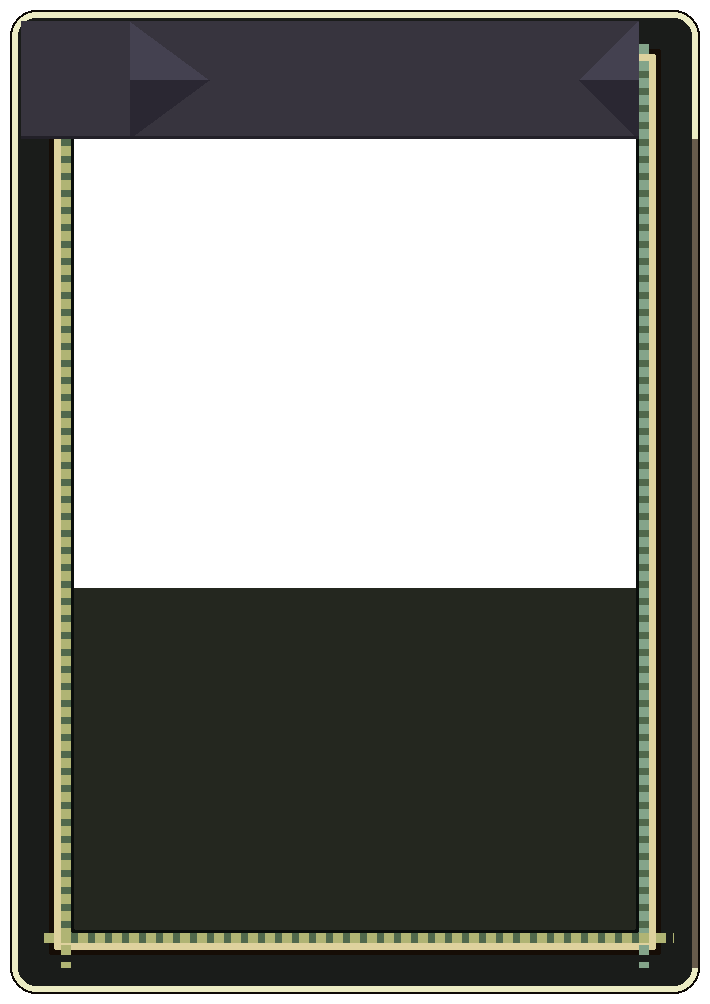
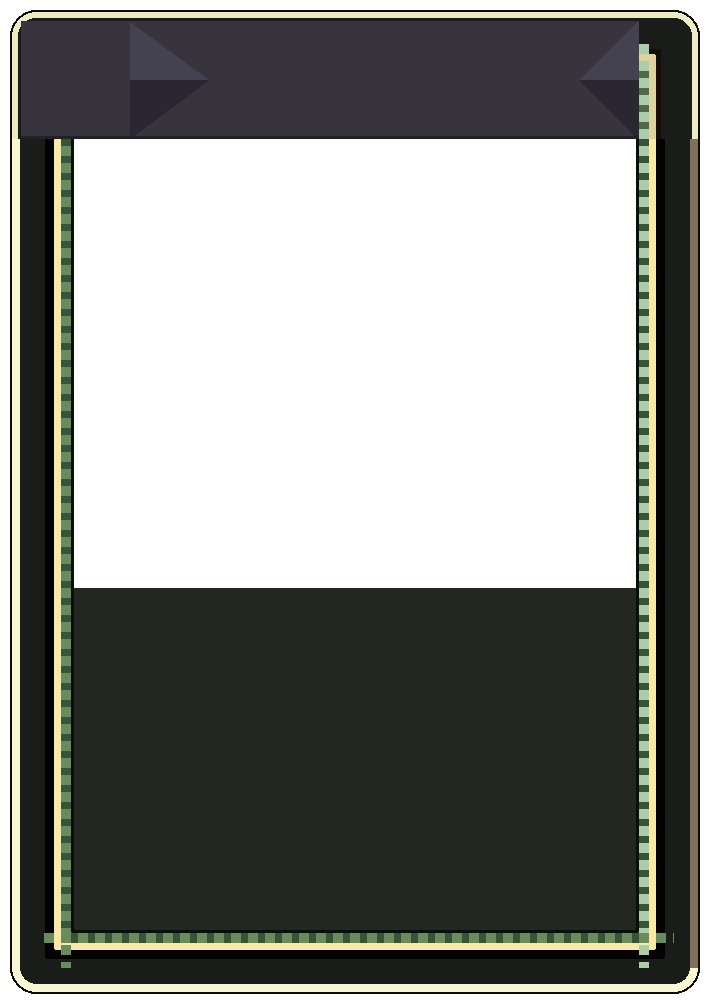
builder: each card registered on TARGET's rails; brighter outer rule, darker keyline, olive stitch
Claude-Session: https://claude.ai/code/session_012yCBojD1ccx9Pp3DS6JAE4

Changed region(s): [[0.062, 0.0309, 0.9606, 0.988]]

diff --git a/tools/cardframe_target.py b/tools/cardframe_target.py
@@ -64,15 +64,25 @@ EDGE = [((14, 10, 6), 2), ((228, 230, 188), 9), ((38, 40, 31), 33),
 # (~(26,28,26)); a warm near-black keyline (~(22,13,6)) sits right before
 # the inner rule; and the stitch beside the inner rule is yellow-olive
 # (~(149,152,99)), not mint.
-EDGE = [((14, 10, 6), 2), ((236, 236, 196), 6), ((26, 28, 26), 31), ((22, 13, 6), 5),
-        ((222, 210, 158), 7), ((80, 104, 76), 10), ((40, 66, 48), 0),
+EDGE_TOP = [((14, 10, 6), 2), ((236, 236, 196), 6), ((26, 28, 26), 31), ((22, 13, 6), 5),
+            ((222, 210, 158), 7), ((80, 104, 76), 10), ((40, 66, 48), 0),
+            ((10, 14, 12), 3)]
+# Run 8 (2026-10-10), with each card registered on TARGET's rails first
+# (combat_3d HAND_CARD_NUDGE), profiled across the rails at 720 at quarter-px
+# steps: TARGET's side outer rule peaks ~135-160 (ours ~100), and the band
+# drops to ~10-20 right before the inner rule (ours ~35). Wider, brighter
+# outer rule; darker, wider keyline; the inner rules keep their place. Above
+# the name band's foot the frame keeps EDGE_TOP: TARGET's top edge is the thin
+# line alone.
+EDGE = [((14, 10, 6), 2), ((250, 248, 212), 8), ((26, 28, 26), 25), ((4, 2, 2), 9),
+        ((250, 232, 166), 7), ((56, 84, 56), 10), ((40, 66, 48), 0),
         ((10, 14, 12), 3)]
-BEAD = (176, 180, 116)   # the dashes: yellow-olive on the inner rule's dark green (was mint (196,222,178))
+BEAD = (104, 140, 92)   # the dashes: olive green beside the gold rule (run 8; was yellow-olive (176,180,116))
 # ...but TARGET lights its cards from the left: on a card's RIGHT side the
 # stitch is teal (~(126,157,132)) and the outer rule a dim warm brown
 # (~(100,88,72)), measured at 720 on Tongue Flick's right edge (run 7).
-BEAD_R = (132, 164, 138)
-OUTER_R = (104, 92, 76)
+BEAD_R = (170, 205, 170)
+OUTER_R = (128, 112, 92)
 BAND_DASH = (26, 28, 26)   # TARGET's band carries no green dashes: band colour
 BAND_DASH_W = 4
 BAND_DASH_ON, BAND_DASH_PERIOD = 10, 18
@@ -102,6 +112,16 @@ def build():
         inset += w
     rounded(d, inset, BODY + (255,))
     a = np.asarray(im).copy()
+    im_t = Image.new("RGBA", (W, H), (0, 0, 0, 0))
+    d_t = ImageDraw.Draw(im_t)
+    inset_t = 0
+    for col, w in EDGE_TOP:
+        rounded(d_t, inset_t, col + (255,))
+        inset_t += w
+    rounded(d_t, inset_t, BODY + (255,))
+    assert inset_t == inset
+    bb0 = int(BAND_BOTTOM * H)
+    a[:bb0] = np.asarray(im_t)[:bb0]
     top = inset
     # beads in the band: the band runs from b0 to b1 px in from the edge
     b0 = EDGE[0][1] + EDGE[1][1] + EDGE[2][1] + EDGE[3][1]
@@ -148,7 +168,7 @@ def build():
     # band, inner rule and stitch) runs on up past the name and curls round
     # the top-right corner (Matched check 2026-10-10 run 7, Tongue Flick).
     # Kept inside the 80 px right patch margin.
-    rail_w = sum(w for _, w in EDGE[:6])
+    rail_w = sum(w for _, w in EDGE[:-2])
     a[:bb, W - rail_w:, :] = rails[:bb, W - rail_w:, :]
     rx0, rx1 = W - rail_w, W - rail_w - CHEV_R
     for y in range(BAND_FROM, bb - 3):

diff --git a/design/plan/BUILDER-QUEUE.md b/design/plan/BUILDER-QUEUE.md
@@ -16,7 +16,7 @@ run failed.
 Matched check 2026-10-10 (run 7): both critics MODERATE on card frame borders; critic B MODERATE on the fourth slab's left end and Tongue Flick's top-right corner; shared MINOR: energy box, HUD lettering, zigzag and sword strokes, gauge orb (open item), outline and slab-edge softness (open items) (six items queued above)
 
 - [ ] **Card frames: TARGET's dark band, gold line and green stitch.**
-      Next pass: run 7 (2026-10-10) grader FAIL x2, "outer rail light where TARGET's is dark; dark gap thin; overlaps lack a thick dark band" (VERDICT: FAIL, not further from TARGET); measured at 720 across Tongue Snap's left, Scramble's left and Tongue Flick's right edges: outer rule ~1 px (peak 153 vs 163 on Tongue Snap), band (26,28,26) vs TARGET 22-31, warm keyline before the inner rule, inner rule peak 179-182 vs 177-192, stitch yellow-olive on left sides and teal on right sides as TARGET; hand error at 720 15.2 -> 14.5. FIX: next try the outer rule's sub-pixel phase on Scramble's left (peak 122 vs 190) and widen the right-side dark band ~1 px; re-check in the Matched check.
+      Next pass: run 8 (2026-10-10) grader FAIL x2, "rails read as one pale band; seams narrower and lighter; stitch paler than TARGET's olive" (VERDICT: FAIL, not further from TARGET); built: each card registered on TARGET's rails (HAND_CARD_NUDGE), outer rule brighter, darker keyline, olive stitch; hand error at 720 11.35 -> 9.70; at 720 the quarter-px rail profiles now match on every measured edge, the remaining gap is TARGET's 1024 crispness against a 720 render. FIX: next try a darker stitch base with high-contrast olive dashes (scored 10.06 at 720 vs 9.70, so measure both), and a sharper frame sampler (the frame imports with no mipmaps; check how the hand is drawn before changing it).
       TARGET's card edge is a double rail: a thick dark outer band, a thin gold line, a dark gap, then the green dashed stitch, and a thick dark band shows between overlapping cards (Scramble's left edge, between Leap and Tongue Snap); the game draws one thinner pale cream-green dashed band with the gold line and dark gap mostly missing. Both critics MODERATE (2026-10-10 run 7).
       **Done when** the --square and --hand pairs show no visible difference in the card frame borders.
       Test: state=3d beast=cinder_jackal ^card-frames-target-s-dark-band-gold-line

diff --git a/design/plan/BUILDER-QUEUE-NOTES.md b/design/plan/BUILDER-QUEUE-NOTES.md
@@ -2858,6 +2858,12 @@ Found by measuring, not by eye: the jackal is TARGET's own pixels, so every crac
 - Grader: VERDICT: FAIL x2.
 - Meshy: none.
 
+- 2026-10-10 run 8: profiled every visible rail across its own line at quarter-px steps at 720 (TARGET Lanczos-down to 720, the game's square as drawn). The cards themselves sat off TARGET's rails by up to 0.75 px: new combat_3d HAND_CARD_NUDGE [0.75, -0.75, -0.75, 0.25, 0.4] (720-square px, five-card hand only) registers each card; after it every rail registers at offset 0. Hand error at 720 11.35 -> 10.02 from the nudge alone.
+- tools/cardframe_target.py: outer rule 6 -> 8 px at (250,248,212) (TARGET's side rule peaks 135-160 at 720, ours ~100); band 31 -> 25; keyline 5 -> 9 px at (4,2,2) (TARGET drops to 10-22 right before the inner rule, ours ~35); inner rule (250,232,166); stitch olive (104,140,92) on a darker base (56,84,56); right-side stitch (170,205,170) and outer (128,112,92). Above the name band's foot the frame keeps the old EDGE_TOP (the wider outer rule made the top edge heavier than TARGET's thin line). Hand error 10.02 -> 9.70.
+- Tried and dropped: inner and outer rules 10 px (10.15), a dark gap between gold and stitch with a narrow olive stitch (10.06), a darker stitch base with brighter dashes (9.83), mipmaps on the frame import (no change in the frame).
+- Grader: VERDICT: FAIL x2 (reads a single pale band and narrow light seams; at 1024 TARGET's rails are one crisp px, the game's 720 render cannot be).
+- Meshy: none.
+
 ## Fourth slab from the top: TARGET's left end.
 
 - 2026-10-10 run 7: queued from the Matched check (critic B MODERATE, critic A MINOR).
